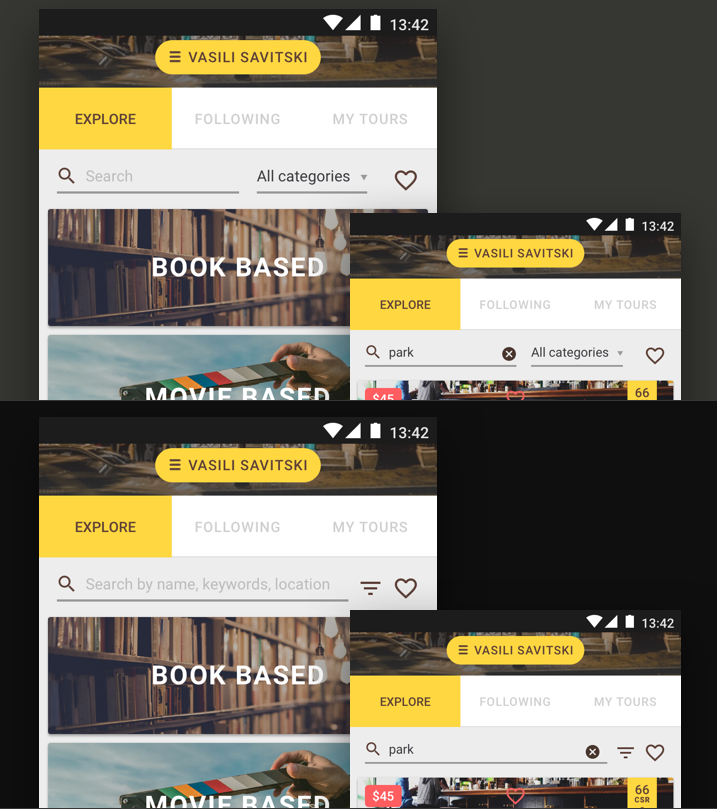
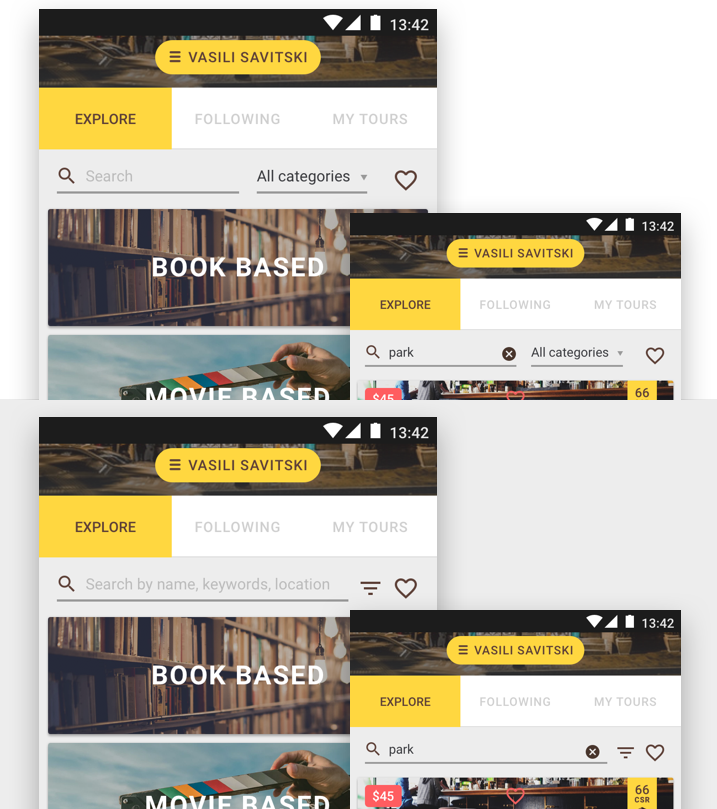
Land Explore Tours update

diff --git a/land_explore/index.html b/land_explore/index.html
@@ -72,15 +72,24 @@
 
     <section>
       <h2 class="mt-5">
+        <img src="./img/explore_screens.png" alt="Explore screens">
+      </h2>
+    </section>
+    
+    <section>
+      <h2 class="mt-5">
         Notes &amp; Comments
       </h2>
       <p>
         <ul>
           <li><b>Current layout allows to address the main group of new users</b> but it won’t distract experienced users as well.</li>
-          <li><b>We should consider swapping to the layout with a minified header as the default one.</b> This improvement will help focus on the essentials and show more tours. The trade-off is the reduced size of the profile background image. It seems to be a pretty good change to make.</li>
-          <li>The height of image block in the card reduced by 20%  (from 152 to 120). It allows to show the 3rd card on the screen. <b>I think we can test images and probably reduce the height to ~100.</b></li>
-          <li>Users will see Explore Tours with categories only after launching the app. <b>You can get back to the screen in the following cases:</b> 1) You check ‘Favs only’ option and then uncheck it; 2) You started to type in the search field and then discarded the progress; 3) You can use ‘Get back’ native control (special button or gesture on the phone) after exploring different tours; 4) Log out or end the app running and then open it again.</li>
-          <li>As we introduced categories in a very vivid way, <b>we may move category’s select into ‘Filters group’ and hide it with other options:</b> like sorting options, sub-categories, free/paid tours, location settings, etc. That will make the screen even more content focused as almost the entire width will be devoted to a search input.</li>
+          <li><b>We should consider swapping to the layout with a minified header as the default one.</b> This improvement will help focus on the essentials and show more tours. The trade-off is the reduced size of the profile background image. It
+            seems to be a pretty good change to make.</li>
+          <li>The height of image block in the card reduced by 20% (from 152 to 120). It allows to show the 3rd card on the screen. <b>I think we can test images and probably reduce the height to ~100.</b></li>
+          <li>Users will see Explore Tours with categories only after launching the app. <b>You can get back to the screen in the following cases:</b> 1) You check ‘Favs only’ option and then uncheck it; 2) You started to type in the search field
+            and then discarded the progress; 3) You can use ‘Get back’ native control (special button or gesture on the phone) after exploring different tours; 4) Log out or end the app running and then open it again.</li>
+          <li>As we introduced categories in a very vivid way, <b>we may move category’s select into ‘Filters group’ and hide it with other options:</b> like sorting options, sub-categories, free/paid tours, location settings, etc. That will make
+            the screen even more content focused as almost the entire width will be devoted to a search input.</li>
         </ul>
       </p>
       <img src="./img/cleaner_actions.png" class="img-fluid d-block mb-3" alt="Cleaner Explore Actions">
